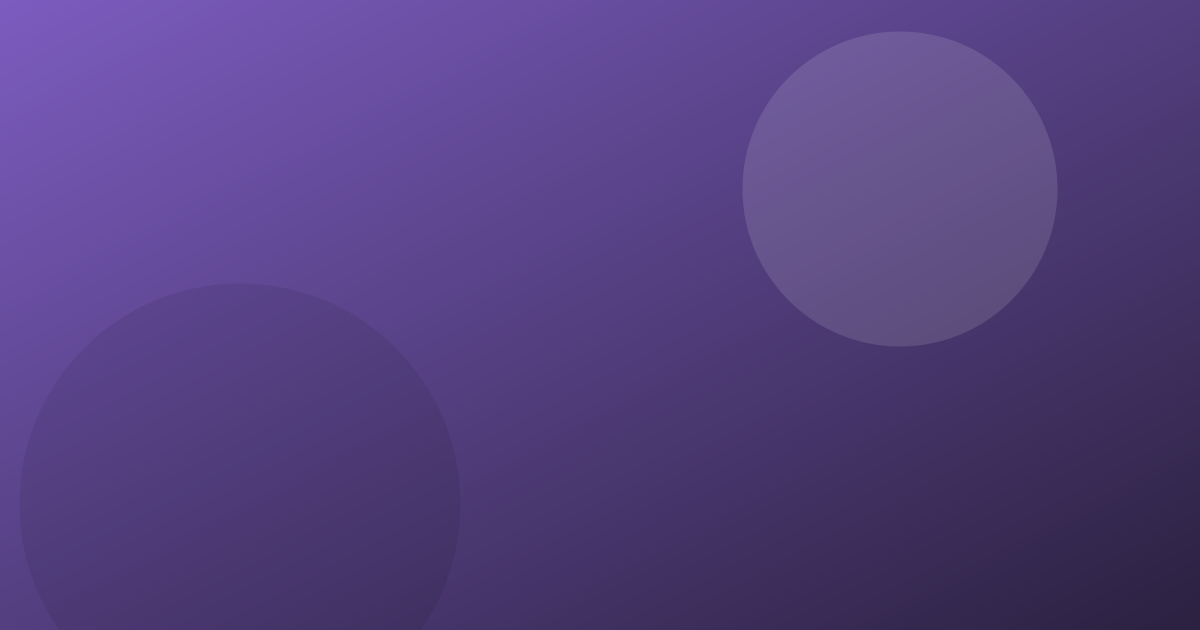
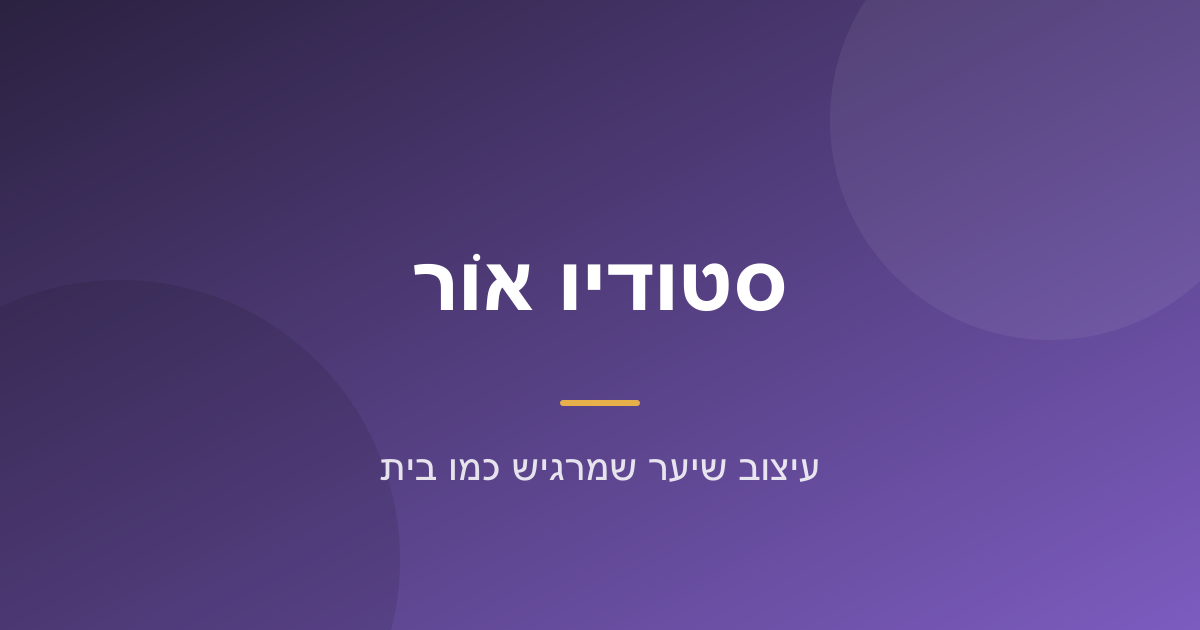
DX: visual regression suite, Renovate config, /new-client skill, generated OG image

diff --git a/tests/visual.spec.ts b/tests/visual.spec.ts
@@ -1,0 +1,70 @@
+import { expect, test } from "@playwright/test";
+
+/**
+ * Visual regression snapshots, tagged @visual.
+ *
+ * Snapshots are platform-specific (filenames carry -win32/-linux/-darwin), so
+ * this suite is excluded in CI (which has no committed linux snapshots) via
+ * --grep-invert @visual. Run locally; after an intentional visual change:
+ *   npx playwright test tests/visual.spec.ts --update-snapshots
+ *
+ * Motion is disabled via prefers-reduced-motion, which our animation layer
+ * fully respects — so every element is in its final, visible state.
+ */
+
+const TARGETS = [
+  { name: "header", selector: "body > header" },
+  { name: "hero", selector: "#hero" },
+  { name: "services", selector: "#services" },
+  { name: "about", selector: "#about" },
+  { name: "testimonials", selector: "#testimonials" },
+  { name: "gallery", selector: "#gallery" },
+  { name: "faq", selector: "#faq" },
+  { name: "cta", selector: "#cta" },
+  { name: "contact", selector: "#contact" },
+  { name: "footer", selector: "body > footer" },
+] as const;
+
+async function preparePage(page: import("@playwright/test").Page): Promise<void> {
+  await page.emulateMedia({ reducedMotion: "reduce" });
+  await page.goto("/");
+  await page.evaluate(() => document.fonts.ready);
+  // Lazy images may never load off-screen — force them eager, then wait for all.
+  await page.evaluate(() => {
+    for (const img of Array.from(document.images)) {
+      img.loading = "eager";
+    }
+  });
+  await page.evaluate(() =>
+    Promise.all(
+      Array.from(document.images)
+        .filter((img) => !img.complete)
+        .map(
+          (img) =>
+            new Promise((resolve) => {
+              img.addEventListener("load", resolve, { once: true });
+              img.addEventListener("error", resolve, { once: true });
+            }),
+        ),
+    ),
+  );
+}
+
+test.describe("visual regression @visual", () => {
+  for (const target of TARGETS) {
+    test(`${target.name} looks right (RTL)`, async ({ page }) => {
+      await preparePage(page);
+      await expect(page.locator(target.selector)).toHaveScreenshot(`${target.name}.png`);
+    });
+  }
+
+  test("LTR flip has no physical-direction leftovers", async ({ page }) => {
+    // Runtime dir flip on the same content: catches accidental physical CSS
+    // (left/right/ml/mr) that would not mirror. Not a full en-locale build.
+    await preparePage(page);
+    await page.evaluate(() => {
+      document.documentElement.dir = "ltr";
+    });
+    await expect(page).toHaveScreenshot("full-page-ltr.png", { fullPage: true });
+  });
+});

diff --git a/scripts/generate-og.ts b/scripts/generate-og.ts
@@ -1,0 +1,52 @@
+/**
+ * Generates public/og-default.png (1200×630) from business.json — client name,
+ * tagline, and brand palette. Run after filling business.json for a new client:
+ *   npm run generate:og
+ *
+ * Uses sharp (ships with Astro). Text renders with system fonts (Arial supports
+ * Hebrew everywhere); replace the file with a designed image whenever one exists.
+ */
+import { readFileSync } from "node:fs";
+import { fileURLToPath } from "node:url";
+import sharp from "sharp";
+import { businessSchema } from "../src/content/business.schema";
+
+const root = new URL("..", import.meta.url);
+const jsonPath = fileURLToPath(new URL("src/content/business/business.json", root));
+const raw: unknown = JSON.parse(readFileSync(jsonPath, "utf-8").replace(/^/, ""));
+const business = businessSchema.parse(raw);
+
+const { name, tagline } = business.data;
+const { primary, secondary, accent } = business.voice.palette;
+
+const escapeXml = (value: string): string =>
+  value
+    .replaceAll("&", "&amp;")
+    .replaceAll("<", "&lt;")
+    .replaceAll(">", "&gt;")
+    .replaceAll('"', "&quot;");
+
+const svg = `<svg xmlns="http://www.w3.org/2000/svg" width="1200" height="630">
+  <defs>
+    <linearGradient id="bg" x1="0" y1="0" x2="1" y2="1">
+      <stop offset="0" stop-color="${secondary}"/>
+      <stop offset="1" stop-color="${primary}"/>
+    </linearGradient>
+  </defs>
+  <rect width="1200" height="630" fill="url(#bg)"/>
+  <circle cx="1050" cy="120" r="220" fill="#ffffff" opacity="0.06"/>
+  <circle cx="120" cy="560" r="280" fill="#000000" opacity="0.10"/>
+  <rect x="560" y="400" width="80" height="6" rx="3" fill="${accent}"/>
+  <text x="600" y="310" text-anchor="middle" direction="${business.locale === "he" ? "rtl" : "ltr"}"
+    font-family="Heebo, Arial, sans-serif" font-size="88" font-weight="700" fill="#ffffff">
+    ${escapeXml(name)}
+  </text>
+  <text x="600" y="480" text-anchor="middle" direction="${business.locale === "he" ? "rtl" : "ltr"}"
+    font-family="Heebo, Arial, sans-serif" font-size="40" fill="#ffffff" opacity="0.85">
+    ${escapeXml(tagline)}
+  </text>
+</svg>`;
+
+const target = fileURLToPath(new URL(`public/${business.data.seo.ogImage}`, root));
+await sharp(Buffer.from(svg)).png({ compressionLevel: 9 }).toFile(target);
+console.log(`✓ ${business.data.seo.ogImage} generated (1200×630) for "${name}"`);

diff --git a/playwright.config.ts b/playwright.config.ts
@@ -6,8 +6,17 @@ export default defineConfig({
   forbidOnly: !!process.env.CI,
   retries: process.env.CI ? 2 : 0,
   reporter: process.env.CI ? "github" : "list",
+  expect: {
+    toHaveScreenshot: {
+      animations: "disabled",
+      maxDiffPixelRatio: 0.02,
+    },
+  },
   use: {
-    baseURL: "http://localhost:4321",
+    // 4322, not 4321: tests build + preview on their own port so they never
+    // hit a running dev server (dev image transforms are slow/flaky under
+    // parallel load and would poison visual baselines).
+    baseURL: "http://localhost:4322",
     trace: "on-first-retry",
   },
   projects: [
@@ -15,8 +24,8 @@ export default defineConfig({
     { name: "mobile", use: { ...devices["Pixel 7"] } },
   ],
   webServer: {
-    command: "npm run build && npm run preview",
-    url: "http://localhost:4321",
+    command: "npm run build && npm run preview -- --port 4322",
+    url: "http://localhost:4322",
     reuseExistingServer: !process.env.CI,
     timeout: 120_000,
   },

diff --git a/.claude/skills/new-client/SKILL.md b/.claude/skills/new-client/SKILL.md
@@ -1,0 +1,67 @@
+---
+name: new-client
+description: Fill this template for a new client end-to-end — interview/brief → business.json → theme + OG image → validation → full test gate. Use when starting a new client site, rebranding an existing one, or when the user provides a client brief to apply.
+---
+
+# New client setup
+
+Turn a client brief into a finished, validated site. Everything flows through
+`src/content/business/business.json` — never edit copy, colors, or contact info anywhere else.
+
+## Step 0 — Gather the brief
+
+If any of these are missing, ask before writing anything:
+
+- Business: name, legal name, what they do, address, phone, email, WhatsApp number
+- Offering: 3–6 services with prices (or "hide price")
+- Hours, service areas, socials
+- Voice: tone, formality, 3–5 keywords, words to avoid, CTA style
+- Brand colors if they exist (otherwise propose a palette that fits the mood)
+- Production domain (drives `data.seo.siteUrl`)
+- Language: `he` (RTL) or `en` (LTR)
+
+## Step 1 — Schema first
+
+Read `src/content/business.schema.ts` before writing JSON. If the brief needs a field that
+doesn't exist, extend the schema first, then the JSON. Never add unvalidated fields.
+
+## Step 2 — Write business.json
+
+- Rewrite EVERY string in `data`, `voice`, and `content` — including nav labels, form labels,
+  FAQ, testimonials placeholders (mark clearly if awaiting real ones), and footer strings.
+- Respect `voice`: tone/formality/doNotSay apply to every sentence you write.
+- Keep the bidi test line pattern in `content.about.body` when locale is `he`
+  (Hebrew + Latin name + phone + ₪ price) — the smoke test asserts it renders.
+- **Windows caveat: save as UTF-8 WITHOUT BOM** — a BOM breaks the build.
+
+## Step 3 — Palette
+
+`voice.palette` drives the entire theme. Constraints (enforced by `npm run validate:content`):
+
+- primary↔surface, secondary↔surface, secondary↔surface-alt, accent↔secondary
+  must all be ≥ 4.5:1 (WCAG AA). Dark secondary + mid-dark primary + warm light accent
+  is the shape that usually works.
+- If the client's brand color fails, darken/lighten it until it passes and note the change.
+
+## Step 4 — Images
+
+- Replace `src/assets/images/*.png` with client photos (keep filenames, or update
+  `business.json` refs). Keep explicit aspect ratios reasonable (hero 4:3, gallery square).
+- Regenerate the OG image from the new name + palette: `npm run generate:og`
+  (replace later with a designed one if provided).
+
+## Step 5 — Gate (all must pass)
+
+```
+npm run validate:content   # schema + contrast — fix before anything else
+npm run test               # + lint + typecheck
+npm run test:e2e           # smoke + axe accessibility
+npx playwright test --grep @visual --update-snapshots   # rebaseline visuals for new brand
+npm run test:visual        # confirm new baselines are stable
+```
+
+## Step 6 — Report
+
+Summarize: what was filled, palette decisions (especially contrast adjustments), placeholders
+still awaiting real content (photos, testimonials), and the deploy checklist from README
+(Cloudflare Pages + `PUBLIC_WEB3FORMS_KEY` + `data.seo.siteUrl` matches the domain).

diff --git a/README.md b/README.md
@@ -45,7 +45,9 @@ FAQPage), sitemap + robots, Web3Forms contact form, Biome, Husky, Playwright, Li
 | `npm run build`            | Static build to `dist/`                            |
 | `npm run preview`          | Serve the built site                               |
 | `npm run test`             | Content validation + Biome + `astro check`         |
-| `npm run test:e2e`         | Playwright smoke tests (builds + serves itself)    |
+| `npm run test:e2e`         | Playwright smoke + axe a11y tests (builds + serves itself) |
+| `npm run test:visual`      | Visual regression snapshots (local; rebaseline with `--update-snapshots`) |
+| `npm run generate:og`      | Regenerate the OG image from business.json name + palette |
 | `npm run lhci`             | Lighthouse CI budgets (LCP ≤ 2.5s, INP ≤ 200ms, CLS ≤ 0.1) — run `build` first |
 
 First e2e run needs `npx playwright install chromium`.
@@ -53,6 +55,16 @@ First e2e run needs `npx playwright install chromium`.
 **CI**: `.github/workflows/ci.yml` runs all of the above (including axe-core accessibility
 checks and the Lighthouse budgets) on every push/PR. Recommended: protect `master` and require
 the three jobs to pass before merge.
+
+Notes:
+
+- Visual snapshots are platform-specific (`-win32`/`-linux` suffixes), so the `@visual` suite
+  runs locally and is excluded in CI. Rebaseline after intentional design changes with
+  `npx playwright test --grep @visual --update-snapshots`.
+- `renovate.json` keeps the pinned dependencies fresh (enable the Renovate GitHub App on the
+  **template** repo only — grouped PRs, majors held for approval). Client clones stay frozen.
+- Claude Code users get a `/new-client` skill (`.claude/skills/new-client/`) that walks the
+  whole fill-validate-test pipeline for a new client brief.
 
 ## MCP setup for AI agents (first time — nothing to install)
 

diff --git a/AGENTS.md b/AGENTS.md
@@ -17,9 +17,13 @@ npm run format            # biome check --write .
 npm run typecheck         # astro check
 npm run validate:content  # standalone business.json schema check
 npm run test              # validate:content + lint + typecheck
-npm run test:e2e          # Playwright smoke tests (builds + previews automatically)
+npm run test:e2e          # Playwright smoke + axe tests (builds + previews automatically)
+npm run test:visual       # visual regression snapshots (local only, platform-specific)
+npm run generate:og       # regenerate public/og-default.png from business.json
 npm run lhci              # Lighthouse CI against dist/ (run build first)
 ```
+
+After an intentional visual change, rebaseline: `npx playwright test --grep @visual --update-snapshots`.
 
 ## Folder map
 

diff --git a/CLAUDE.md b/CLAUDE.md
@@ -15,7 +15,7 @@ Declared in `.mcp.json`, pre-allowed in `.claude/settings.json` — use them, do
 ## Claude-specific notes
 
 - After editing `business.json` or `business.schema.ts`, run `npm run validate:content` before anything else — it gives the fastest, clearest error messages.
-- `npm run test:e2e` builds and serves the site itself; don't start `npm run dev` alongside it (port 4321 conflict).
+- `npm run test:e2e` builds and serves itself on port 4322, so it can run alongside `npm run dev` (4321). Never point tests at the dev server — dev image transforms are flaky under parallel load and poison visual baselines.
 - Windows note: write files as UTF-8 **without BOM** — a BOM in `business.json` breaks `JSON.parse` at build time.
 - When asked to "re-theme" or "rebrand", touch only `business.json` (`voice.palette` + copy). If that isn't enough, extend `global.css` tokens — never inline colors in components.
 - Placeholder images are generated by `npx tsx scripts/generate-placeholders.ts`; real client photos replace files in `src/assets/images/` keeping the same filenames (or update `business.json`).